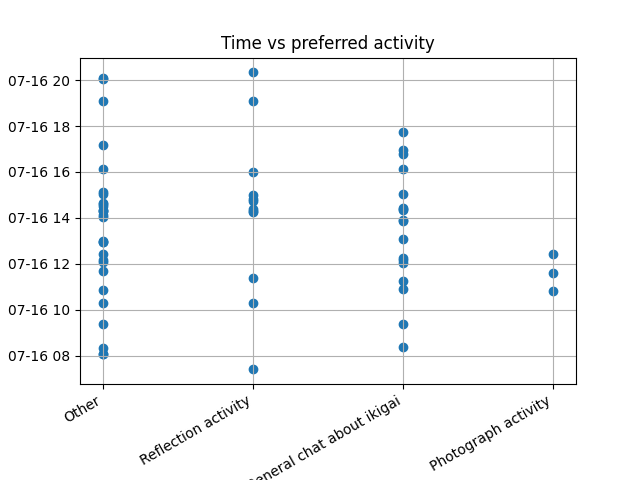
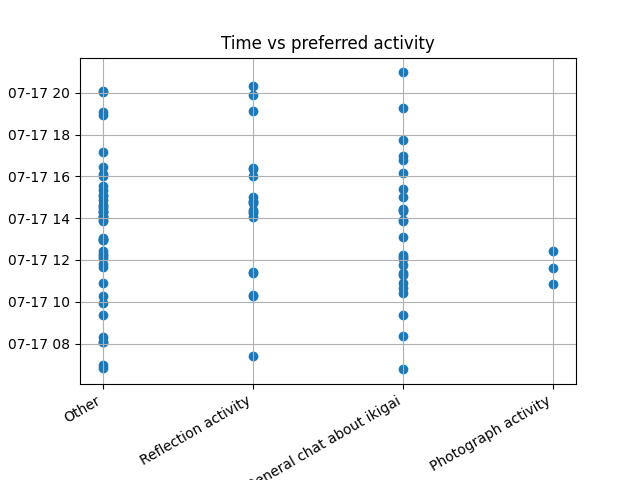
final dataset edits

diff --git a/main.py b/main.py
@@ -125,8 +125,8 @@ def load_and_write_data(read_filepath, write_filepath):
     df.to_excel(write_filepath)
 
 
-analytics_read_file = "C:\\Users\gosho\OneDrive\Desktop\R-HouseFiles\Expert+Panel-+Life+with+IRIS_July+10,+2023_11.13\Expert Panel- Life with IRIS_July 10, 2023_11.13.xlsx"
-analytics_write_file = "C:\\Users\gosho\OneDrive\Desktop\R-HouseFiles\Expert+Panel-+Life+with+IRIS_July+10,+2023_11.13\Expert Panel- processed_July 10.xlsx"
+analytics_read_file = "C:\\Users\gosho\OneDrive\Desktop\R-HouseFiles\Expert+Panel-+Life+with+IRIS_July+17,+2023_09.50\Expert Panel- Life with IRIS_July 17, 2023_09.50.xlsx"
+analytics_write_file = "C:\\Users\gosho\OneDrive\Desktop\R-HouseFiles\Expert+Panel-+Life+with+IRIS_July+17,+2023_09.50\Expert Panel- Life with IRIS_July 17-processed.xlsx"
 load_and_write_data(analytics_read_file, analytics_write_file)
 
 
